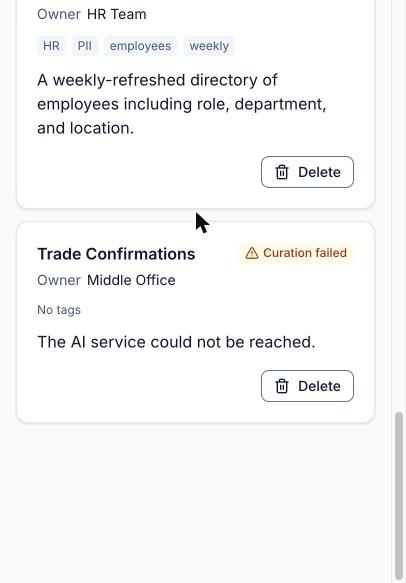
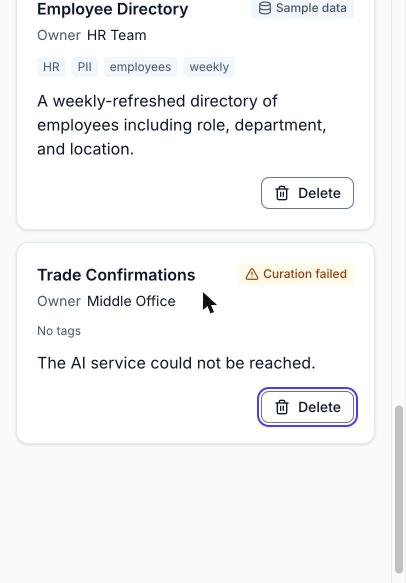
docs: live Claude verification report and readme wording
/verify-ui ran against b47dcbb with Claude curating: every check
passed, with three billed calls, and the forked skill reached the
Chrome tools. The screenshots now come from that run.

The README section on what the project meets is now called
constraints.

diff --git a/docs/verification.md b/docs/verification.md
@@ -1,57 +1,69 @@
 # Browser verification
 
-The latest `/verify-ui` run: the `ui-tester` agent driving the app in Chrome through Claude in Chrome, following `.claude/skills/verify-ui/SKILL.md`. What each check covers is in [specs/quality-gates.md](../specs/quality-gates.md#claude-in-chrome-verification).
+The latest `/verify-ui` run: the skill driving the app in Chrome through Claude in Chrome, in a forked subagent. What each check covers is in [specs/quality-gates.md](../specs/quality-gates.md#claude-in-chrome-verification).
 
 - **Date:** 2026-10-26
-- **Commit:** `4319ac2`, clean tree
-- **Curation provider:** `keyword`. The run started its own servers with `/verify-ui keyword`, so no step called Claude. A live Claude pass is pending an `ANTHROPIC_WORKSPACE_ID` for the configured key.
+- **Commit:** `b47dcbb`. The run owned its servers and started from a clean tree.
+  - The edits now in `ecb377c` landed while it ran, and nothing under `frontend/` changed.
+  - The API restarted for step 5 loaded `ecb377c`'s prompt rule against repeated tags, and curated only the deleted-elsewhere record. The checklist and keyboard entries were curated with `b47dcbb`'s prompt.
+- **Curation provider:** `anthropic` (`claude-opus-5-5`), from `backend/.env`. Three billed calls: the checklist entry, the keyboard pass's entry and the deleted-elsewhere record.
 - **Widths:**
-  - 1040 × 778 for steps 1 to 6;
-  - 406 × 583, the narrowest the window reached, for step 7 and a repeat of the reflow and toast checks;
-  - a same-origin iframe 320 px wide, for reflow.
-
-**Since this run:** `65513fd` fixed the first advisory finding below, and the skill and agent were updated from the run's notes on tooling. Neither change alters a result here.
+  - 998 px: the checklist, the keyboard pass, landmarks, names and live regions.
+  - 406 px, the narrowest the window would go: reflow, the API-down check and the degraded path.
+  - A same-origin iframe 320 px wide: reflow, deleted elsewhere, and the toast check.
 
 ## Results
 
-| Check                                    | Result | Evidence                                                                                                                                                                                                                                                                                                                                           |
-| ---------------------------------------- | ------ | -------------------------------------------------------------------------------------------------------------------------------------------------------------------------------------------------------------------------------------------------------------------------------------------------------------------------------------------------- |
-| 1. Preflight                             | PASS   | Nothing answered on :8000 or :5173, so the run started the API (keyword) and Vite as separate processes. `/health` reported `keyword`, and `GET /datasets` returned the three seeds.                                                                                                                                                               |
-| 2.1 Seeds on load                        | PASS   | Row headings in order: Customer Transactions, Product Inventory, Employee Directory, each with "Sample data", tags and summary. `<title>Data Catalogue</title>`, `lang="en"`.                                                                                                                                                                      |
-| 2.2 Inline errors                        | PASS   | The empty submit showed "Enter a name", "Enter an owner" and "Enter a description". Each field had `aria-invalid="true"` and its message in `aria-describedby`. Focus was on Name, and no request reached `/datasets`. The errors cleared while typing.                                                                                            |
-| 2.3 The test payload adds a 4th entry    | PASS   | While pending: "Saving and curating…" with `aria-disabled` (not `disabled`), focus kept on the button, read-only fields, and the 20-second status text. Then a 201 and a fourth row: "Keyword curated", tags trading, finance, settlements, daily, and a one-sentence summary. The success toast showed, the form was empty and focus was on Name. |
-| 2.4 Delete without a refresh             | PASS   | The modal `alertdialog` had the spec's copy, with Cancel focused. Esc deleted nothing and returned focus to the row's Delete button. Confirming sent `DELETE /datasets/4` (200) and the row went. The `window` sentinel survived, the success toast showed, focus moved to "Employee Directory", and the API was back to the seeds.                |
-| 3. Skip link                             | PASS   | "Skip to datasets" was visible with a ring when focused, and Enter moved focus to the Datasets heading.                                                                                                                                                                                                                                            |
-| 3. Focus ring at every stop              | PASS   | Screenshotted at each of 15 stops, from the skip link through the form, the row buttons and the dialog. Each showed the 2 px focus-colour outline at a 2 px offset.                                                                                                                                                                                |
-| 3. Keyboard add and delete               | PASS   | Added with Tab and Enter only, and focus returned to Name. Space opened the dialog with Cancel focused, Esc returned focus to Delete, then Enter, Tab and Enter deleted the row, with focus on the neighbouring heading.                                                                                                                           |
-| 3. Focus never on `body`                 | PASS   | Never in the page. Tab past the dialog's last button moves focus to the browser's own UI (native `showModal()`, `document.hasFocus()` false), and the next Tab returns to Cancel.                                                                                                                                                                  |
-| 4. Landmarks and headings                | PASS   | One `header`, one `main`, both sections labelled by their `h2`, one `h1`. Heading order h1, h2, h2, h3 × 3. No positive `tabindex`. Rows are `li > article[aria-labelledby]`, and tags are a labelled list.                                                                                                                                        |
-| 4. Accessible names                      | PASS   | Every name in the spec's list matched. A row's button is "Delete {name}": the visible label plus the name in visually hidden text. Icons are `aria-hidden`.                                                                                                                                                                                        |
-| 4. Live regions                          | PASS   | Both `role="status"` regions were mounted and empty before their text changed. Toasts sit in sonner's polite live region.                                                                                                                                                                                                                          |
-| 4. Reflow                                | PASS   | No horizontal overflow at 1040 px, 406 px or 320 px. At 320 px the page is a single column with nothing clipped.                                                                                                                                                                                                                                   |
-| 4. Toasts never cover the focused Delete | PASS   | At all three widths the last row's focused Delete button sat clear of the toast stack, and its centre hit the button itself. See the screenshot below.                                                                                                                                                                                             |
-| 5. API down on load, then Try again      | PASS   | With the API stopped and the page reloaded, the alert showed "Could not reach the server. Check your connection and try again." and the status region announced it. Restarted the API and pressed Try again: loading, then the seeds, with focus on the Datasets heading.                                                                          |
-| 5. Deleted elsewhere                     | PASS   | Created a record with `curl`, reloaded, deleted it with `curl`, then deleted it in the page: a 404, the info toast `"Verify UI deleted elsewhere" was already removed`, and the row went.                                                                                                                                                          |
-| 6. Console errors                        | PASS   | None, in either tab.                                                                                                                                                                                                                                                                                                                               |
-| 7. Degraded path                         | PASS   | Against `pnpm dev:degraded` the row showed "Curation failed", "No tags" and the detail "The AI service could not be reached." The warning toast `Saved "Trade Confirmations" without AI tags` had a 24 px close button. Deleted the row afterwards.                                                                                                |
-| Finish                                   | PASS   | Both catalogues held only the seeds. All tabs were closed and every process the run started was stopped.                                                                                                                                                                                                                                           |
+| Check                                       | Result | Evidence                                                                                                                                                                                                                                                                                     |
+| ------------------------------------------- | ------ | -------------------------------------------------------------------------------------------------------------------------------------------------------------------------------------------------------------------------------------------------------------------------------------------- |
+| Preflight                                   | PASS   | Nothing answered on :8000 or :5173. The run started uvicorn and Vite as separate processes, and `GET /datasets` returned the three seeds.                                                                                                                                                    |
+| Seeds on load                               | PASS   | Row headings in order: Customer Transactions, Product Inventory, Employee Directory, each marked "Sample data". `<title>Data Catalogue</title>`, `lang="en"`.                                                                                                                                |
+| Inline errors on an empty submit            | PASS   | "Enter a name", "Enter an owner" and "Enter a description". Each field had `aria-invalid="true"` and its error in `aria-describedby`; Description's also had its hint. Focus went to Name, and no request reached the API.                                                                   |
+| Pending state                               | PASS   | Read in the same batch as the click: "Saving and curating…" with a spinner, `aria-disabled="true"` and not `disabled`, and focus kept on the button. The fields were read-only and the status line showed the 20-second text. A second click sent nothing.                                   |
+| The test payload adds a fourth entry        | PASS   | `POST /datasets` 201. The row showed "Curated by Claude", the tags trading, trades, confirmations and daily, and the summary "A daily export of confirmed trades covering instrument type, counterparty, notional value, and settlement date." The form emptied, and focus returned to Name. |
+| Success toast on create                     | PASS   | `Added "Trade Confirmations"`. It was seen in the keyboard pass's identical create; the checklist's DOM read came after the 5 s toast had gone.                                                                                                                                              |
+| Delete dialog copy and initial focus        | PASS   | A modal `alertdialog` titled `Delete "Trade Confirmations"?`, with the spec's text and Cancel, then "Delete dataset". Cancel had focus.                                                                                                                                                      |
+| Esc closes without deleting                 | PASS   | Four rows remained in the page and the API, and focus returned to "Delete Trade Confirmations".                                                                                                                                                                                              |
+| Delete without a refresh                    | PASS   | The row went at once. The `window` sentinel survived with one navigation entry, and `Deleted "Trade Confirmations"` showed. Focus moved to "Employee Directory", the previous row, and the API was back to the seeds.                                                                        |
+| Keyboard: skip link                         | PASS   | It was the first Tab stop, with its ring. Enter focused the Datasets heading, ring in view (top 16 px), and the next Tab reached "Delete Customer Transactions".                                                                                                                             |
+| Keyboard: add and delete                    | PASS   | Added with Tab and Enter only: focus stayed on the pending button, then returned to Name. Space opened the dialog on Cancel, and Esc returned focus to Delete. Enter, Tab and Enter deleted the row, with focus on the neighbouring heading.                                                 |
+| Keyboard: focus ring at every stop          | PASS   | `:focus-visible` with the 2 px focus-colour outline at a 2 px offset, inside the viewport, at every stop.                                                                                                                                                                                    |
+| Focus never on `body` while the page has it | PASS   | A watcher polling every 30 ms recorded none. Tab past the dialog's last button goes to the browser's UI (native `showModal()`), and the next Tab returns to Cancel.                                                                                                                          |
+| Landmarks and headings                      | PASS   | One `header` with the `h1`, one `main`, two sections labelled by their `h2`. Headings h1, h2, h3 with no skipped level. No positive `tabindex`.                                                                                                                                              |
+| Accessible names                            | PASS   | Every name in the spec's list, checked in the DOM, including sonner's "Notifications alt+T" region and "Close toast" button. A row's button is "Delete" plus the name in visually hidden text.                                                                                               |
+| Row structure                               | PASS   | `li > article[aria-labelledby]`, a focusable `h3`, the owner as a `dl` pair, tags as `ul aria-label="Tags"`. A failed row shows "No tags" with no empty list.                                                                                                                                |
+| Live regions                                | PASS   | Both `role="status"` regions were mounted and empty before their text changed. The toaster is `aria-live="polite"`.                                                                                                                                                                          |
+| Target sizes                                | PASS   | Add dataset 115 × 40, row Delete 93 × 32, Try again 88 × 32, and the toast close button 24 × 24 (from `index.css`).                                                                                                                                                                          |
+| Reflow                                      | PASS   | No horizontal overflow at 406 px or in the 320 px iframe, and nothing extends past the right edge.                                                                                                                                                                                           |
+| Toasts never cover the focused Delete       | PASS   | At 320 px and at 406 px, right after a confirmed delete, the last row's focused Delete button sat clear of the toast (see below).                                                                                                                                                            |
+| API down on load, then Try again            | PASS   | With the API stopped, the skeleton showed, then after the retries "Couldn't load datasets" with "Could not reach the server. Check your connection and try again." After restarting the API, Try again showed loading, then the seeds, with focus on the Datasets heading.                   |
+| Deleted elsewhere                           | PASS   | Created with `curl` (curated by Claude), reloaded, deleted with `curl`, then deleted in the page: a 404, the info toast `"Verify UI deleted elsewhere" was already removed`, and the row went.                                                                                               |
+| Console errors                              | PASS   | None. Only Vite's connection lines and React's DevTools notice.                                                                                                                                                                                                                              |
+| Degraded path                               | PASS   | Against `pnpm dev:degraded`: "Curation failed", "No tags", and "The AI service could not be reached." in place of the summary. The warning toast `Saved "Trade Confirmations" without AI tags` had a "Close toast" button. Deleted afterwards.                                               |
+| No `alert`, `confirm` or `prompt`           | PASS   | None appeared.                                                                                                                                                                                                                                                                               |
+| Cleanup                                     | PASS   | Both catalogues held only the seeds. All tabs were closed, every process the run started was stopped, and the ports were free.                                                                                                                                                               |
 
 ## Accessibility findings
 
-No failures. Two advisory notes:
+No failures against WCAG 2.2 AA or the spec's accessibility contract. Two observations, neither a failure:
 
-1. **The skip link scrolled the Datasets heading flush to the top of the viewport,** so the top edge of its focus ring touched the edge (2.4.7, still met). Fixed in `65513fd` with a scroll margin, pinned by a test in `frontend/src/app/app.test.tsx`.
-2. **Tab past the dialog's last button reaches the browser's UI** before cycling back to Cancel. This is native `showModal()` behaviour, not a trap (2.1.2 and 2.4.3 met), so it stays as is.
+- **Focus moved by script after a mouse click shows no ring,** as after clicking Try again or Delete dataset. This is Chrome's `:focus-visible` heuristic, and after the same move from the keyboard the ring shows (2.4.7 met).
+- **Shift+Tab to Owner scrolls the field to the top edge,** taking its label just out of view. The field and its ring stay fully visible (2.4.11 met).
+
+## Notes
+
+- **Tags and the prompt.** Claude's tags here pair "trading" with "trades". The same pairing showed up in a wider live sample, and `ecb377c` adds a rule against repeated tags; [specs/curation.md](../specs/curation.md#invariants--decided-points) records the before and after.
+- **Two `GET /datasets` per page load in dev.** The first is aborted by React StrictMode's double mount; the server answered both with 200.
 
 ## Screenshots
 
-The delete dialog at 1040 px:
+The delete dialog at 998 px, over a row curated by Claude:
 
-![The delete confirmation dialog](verification/delete-dialog.jpg)
+![The delete confirmation dialog over a Claude-curated row](verification/delete-dialog.jpg)
 
-At 406 px, a failed curation from the degraded path, and the last row's focused Delete button clear of a toast:
+At 320 px, the last row's focused Delete button clear of a toast, and at 406 px, a row from the degraded path:
 
 <p>
+  <img src="verification/toast-clearance-320.jpg" alt="The focused Delete button above the already-removed toast, at 320 px" width="280">
   <img src="verification/degraded-row-406.jpg" alt="A row with the Curation failed badge, No tags, and the failure detail" width="300">
-  <img src="verification/toast-clearance-406.jpg" alt="The focused Delete button above the Deleted toast" width="300">
 </p>

diff --git a/README.md b/README.md
@@ -31,7 +31,7 @@ Open http://localhost:5173. The API's interactive docs are at http://localhost:8
 
 If your key is not scoped to a workspace, Anthropic answers every call with a 400 until you also set `ANTHROPIC_WORKSPACE_ID`. Other settings, with their defaults, are in `backend/.env.example` and [docs/architecture.md](docs/architecture.md#configuration).
 
-The keyword curator on the brief's test payload:
+The keyword curator on a sample dataset:
 
 ```json
 {
@@ -44,7 +44,7 @@ The keyword curator on the brief's test payload:
 
 Claude is called with structured outputs, so its reply is parsed into the same shape. A curation that fails (a timeout, a rate limit, Anthropic unavailable or rejecting the request, a refusal, or a reply that can't be used) never loses the record: it is saved with `curation.status: "failed"`, empty tags, no summary, and a `detail` the UI shows.
 
-## How the brief is met
+## Constraints and how they are met
 
 ### Validation checklist
 
@@ -84,7 +84,7 @@ Claude is called with structured outputs, so its reply is parsed into the same s
 | ----------------- | -------------------------------------------------------------------------------------------------------------------------------------------------------------------------------- |
 | `pnpm check`      | Backend: ruff, import-linter, mypy `--strict`, pytest and schemathesis at 95 % coverage, OpenAPI drift. Frontend: ESLint, Prettier, `tsc`, Vitest Browser Mode at 95 % coverage. |
 | `pnpm test:e2e`   | Playwright against the production build, on its own servers (:8001, :4173), with the keyword curator pinned                                                                      |
-| `pnpm verify:api` | The brief's API checklist against a fresh server; `--degraded` for the failure path, `--provider anthropic` for one live Claude call                                             |
+| `pnpm verify:api` | The API checklist against a fresh server; `--degraded` for the failure path, `--provider anthropic` for one live Claude call                                                     |
 
 Husky runs lint-staged and commitlint on commit and `pnpm check` on push. CI runs the backend checks, the frontend checks with a production build, and an E2E job with both `verify:api` modes.
 
